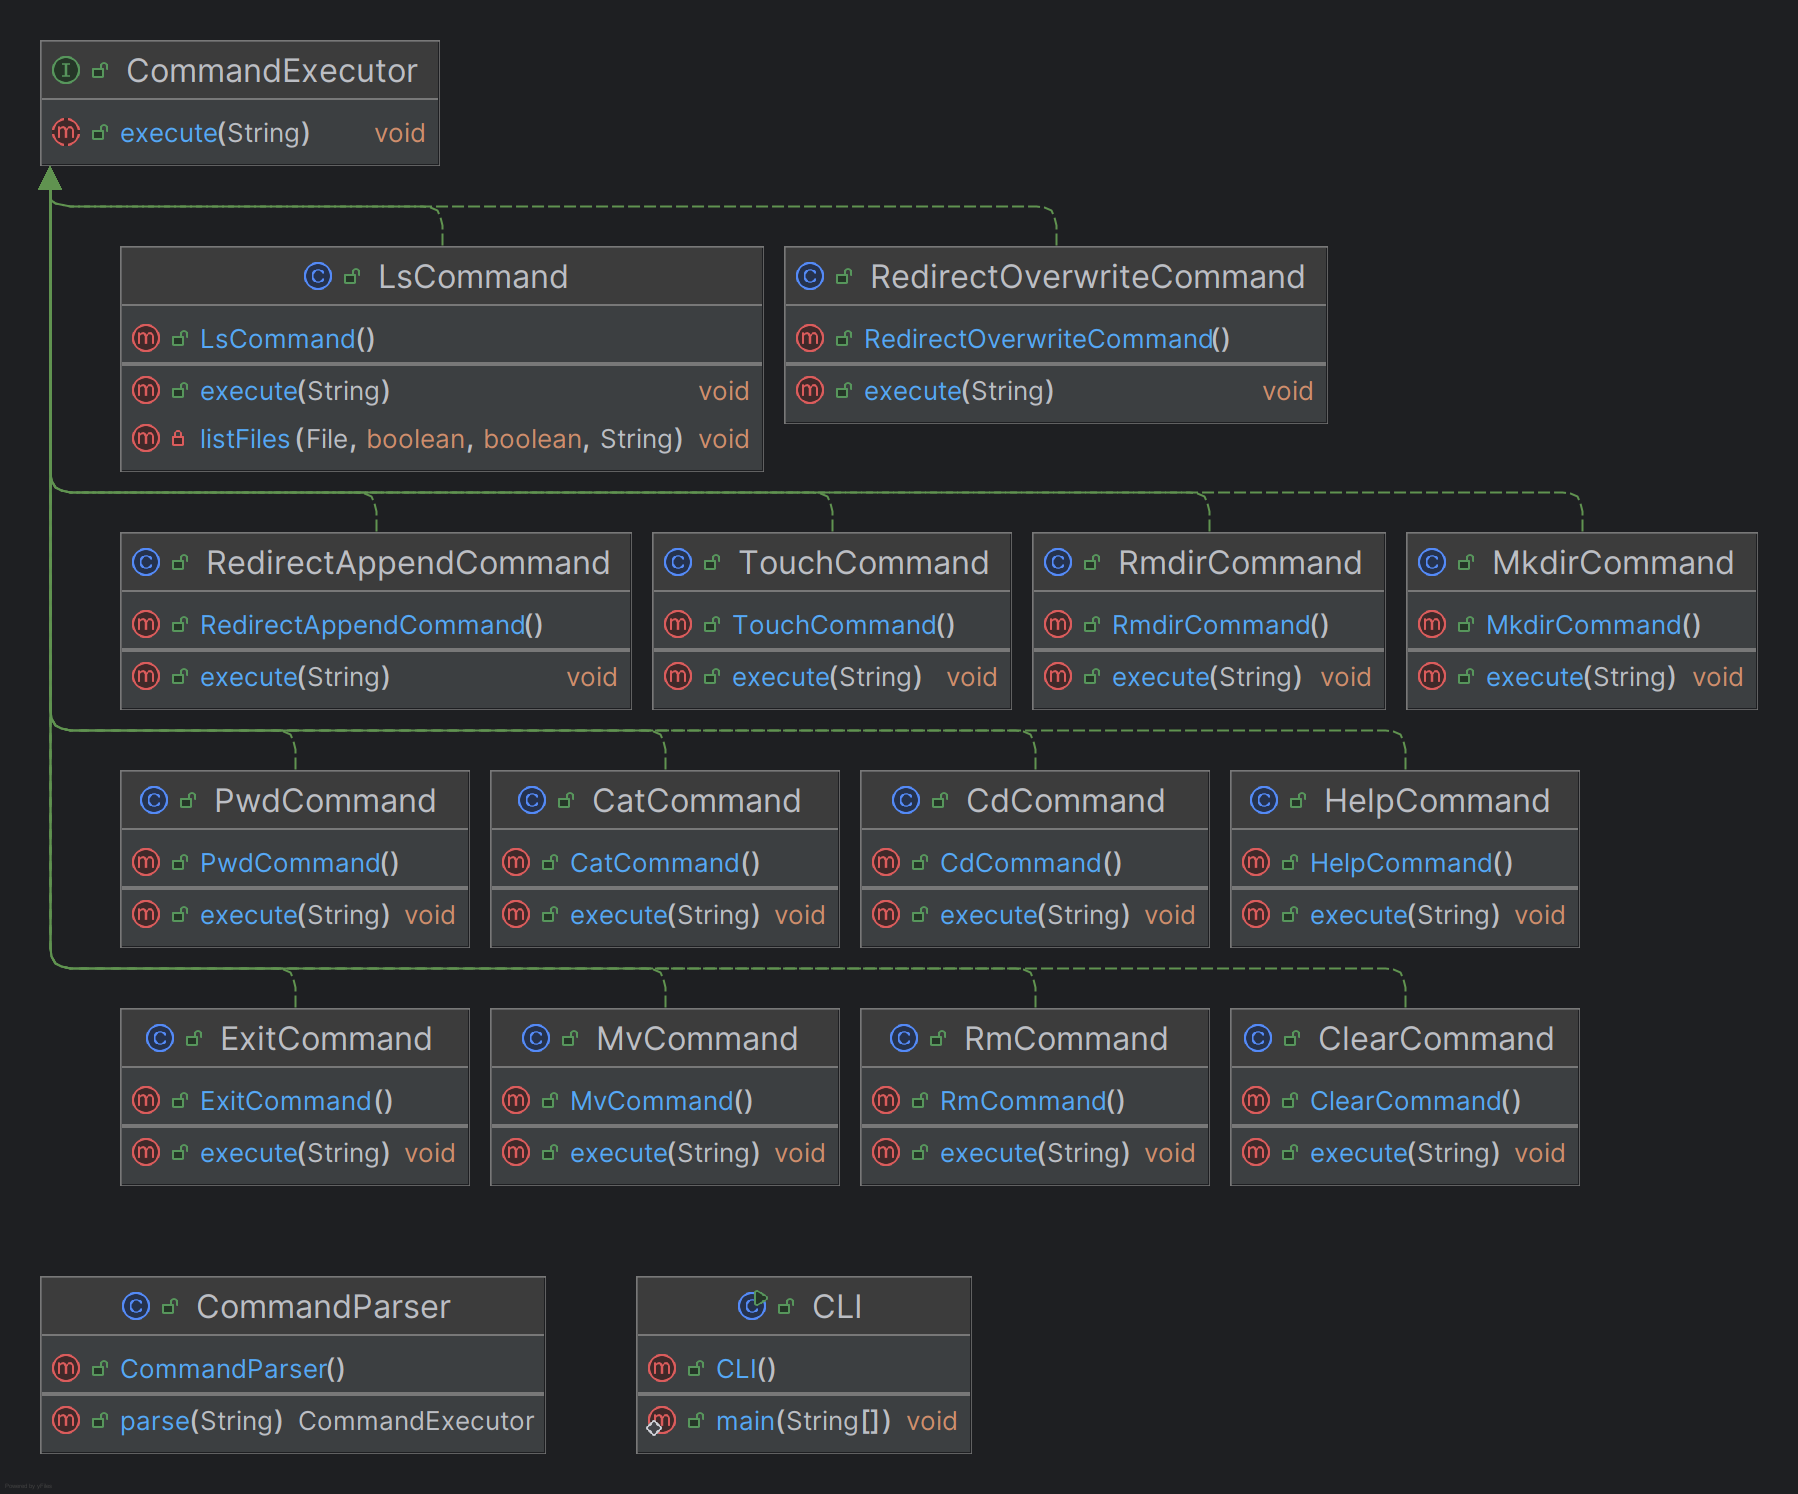
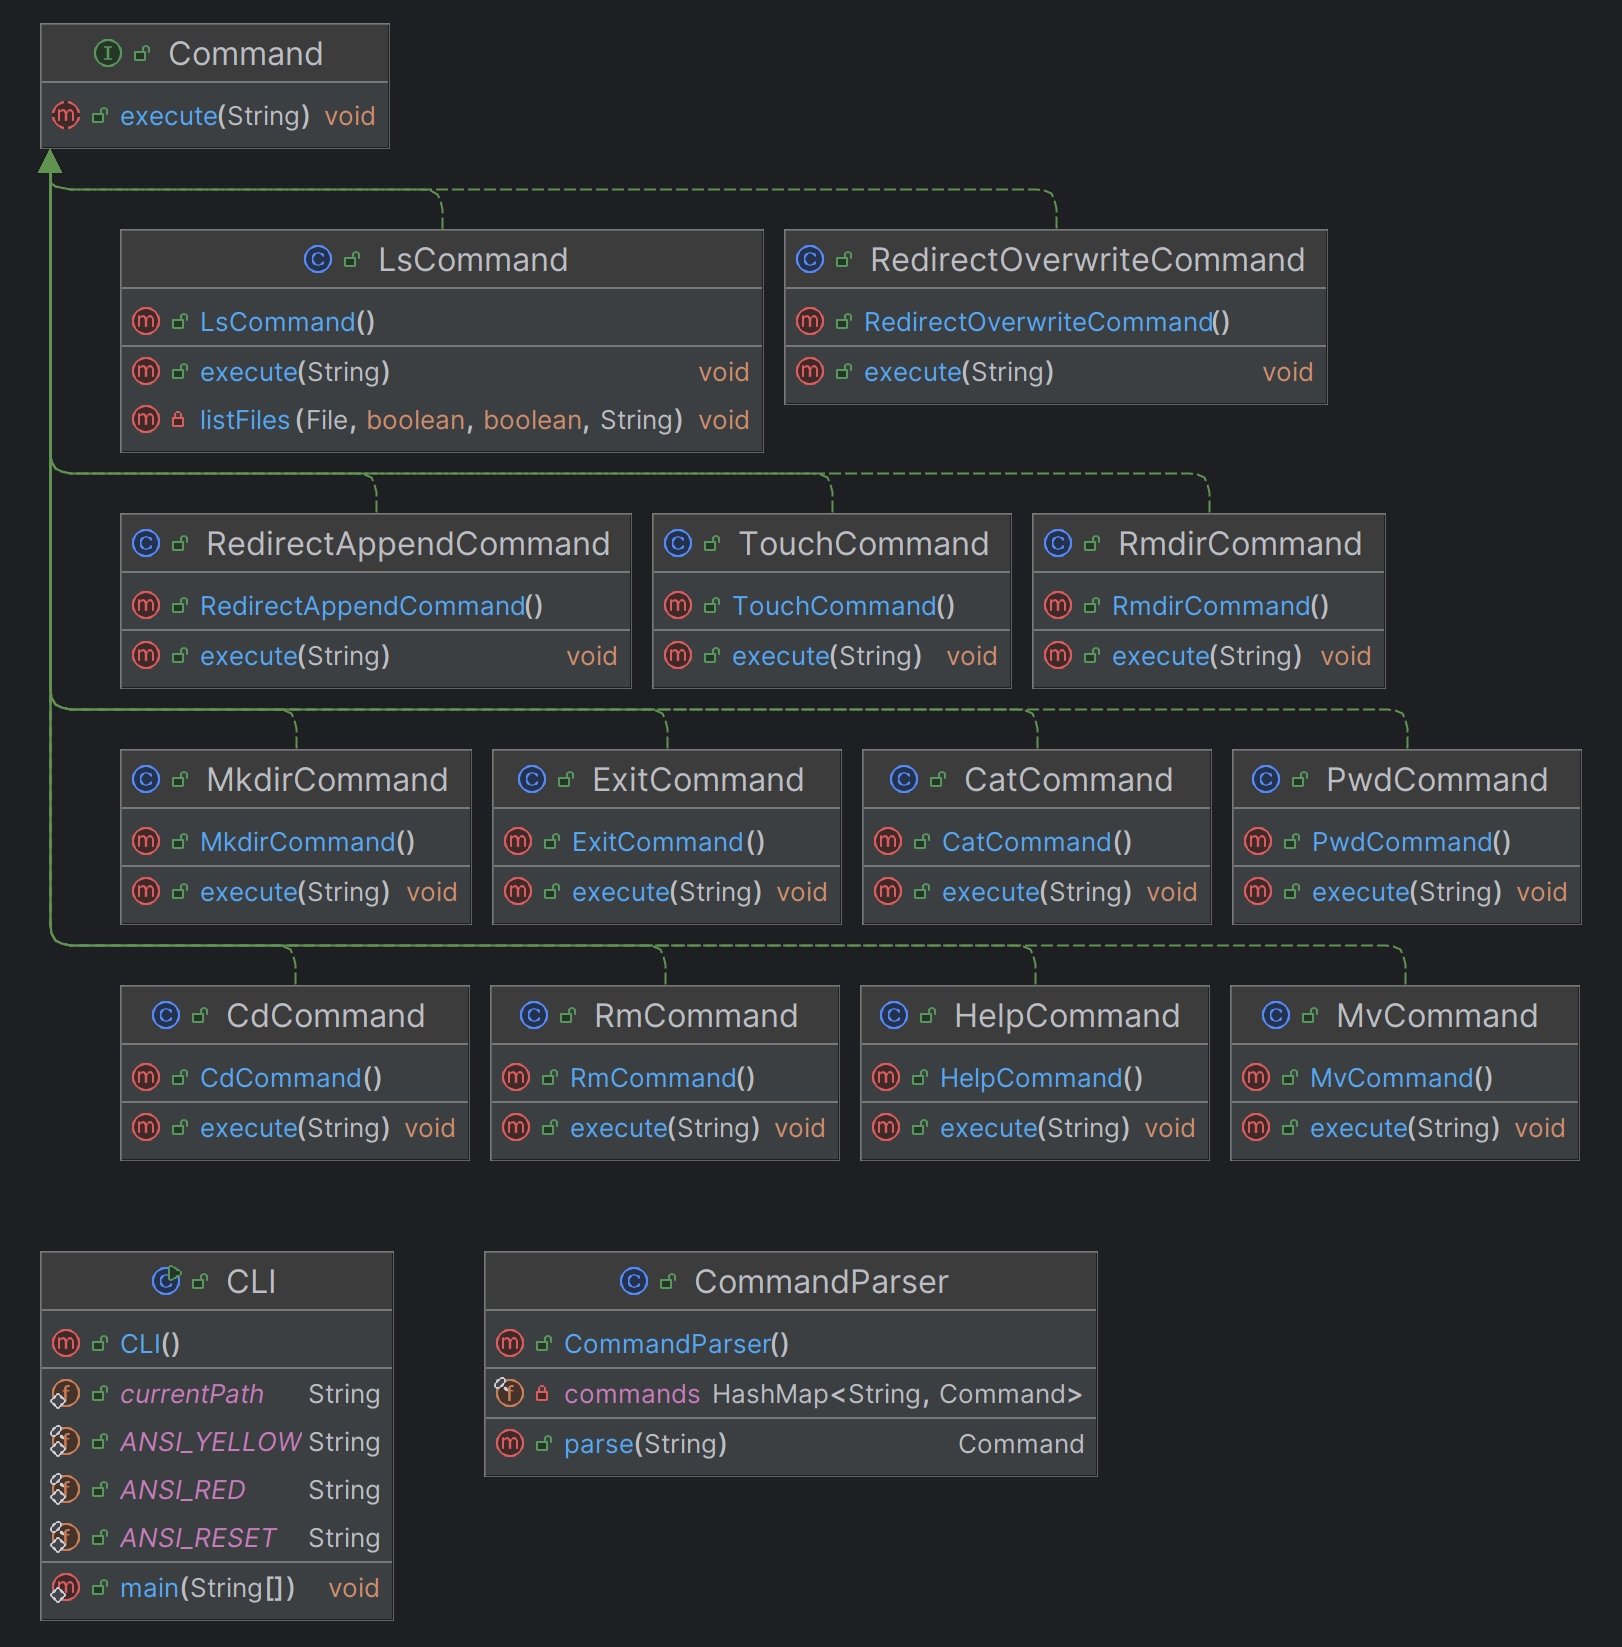
Update the command interface name

diff --git a/src/main/java/org/example/CommandParser.java b/src/main/java/org/example/CommandParser.java
@@ -4,7 +4,7 @@ import java.util.HashMap;
 // The command parser class that parses user input and returns the corresponding command
 public class CommandParser {
     // A map to store the commands
-    private final HashMap<String, CommandExecutor> commands;
+    private final HashMap<String, Command> commands;
 
     // Constructor to initialize the command map
     public CommandParser() {
@@ -38,7 +38,7 @@ public class CommandParser {
     }
 
     // Method to parse the user input and return the corresponding command
-    public CommandExecutor parse(String input) {
+    public Command parse(String input) {
 
         // Handle appending operator
         if (input.contains(">>")) {
@@ -54,7 +54,7 @@ public class CommandParser {
         String[] tokens = input.split(" ");
 
         // Get the command from the first token
-        CommandExecutor command = commands.get(tokens[0]);
+        Command command = commands.get(tokens[0]);
 
         // Return the command if it is recognized
         if (command != null) {

diff --git a/src/main/java/org/example/CLI.java b/src/main/java/org/example/CLI.java
@@ -30,7 +30,7 @@ public class CLI {
             if(input.trim().isEmpty()) continue;
 
             // Parse the input and get the corresponding command
-            CommandExecutor command = parser.parse(input);
+            Command command = parser.parse(input);
 
             // Execute the command if it is recognized by the parser    
             if (command != null) {

diff --git a/src/main/java/org/example/TouchCommand.java b/src/main/java/org/example/TouchCommand.java
@@ -3,7 +3,7 @@ import java.io.File;
 import java.io.IOException;
 
 // Command to create a new file
-public class TouchCommand implements CommandExecutor {
+public class TouchCommand implements Command {
     @Override
     public void execute(String input) {
         String[] tokens = input.split(" ");

diff --git a/src/main/java/org/example/RedirectOverwriteCommand.java b/src/main/java/org/example/RedirectOverwriteCommand.java
@@ -5,7 +5,7 @@ import java.io.IOException;
 import java.util.Arrays;
 
 // Command to overwrite output to a file
-public class RedirectOverwriteCommand implements CommandExecutor {
+public class RedirectOverwriteCommand implements Command {
 
     @Override
     public void execute(String input) {

diff --git a/src/main/java/org/example/RedirectAppendCommand.java b/src/main/java/org/example/RedirectAppendCommand.java
@@ -5,7 +5,7 @@ import java.io.IOException;
 import java.util.Arrays;
 
 // Command to append output to a file
-public class RedirectAppendCommand implements CommandExecutor {
+public class RedirectAppendCommand implements Command {
 
     @Override
     public void execute(String input) {

diff --git a/src/main/java/org/example/PwdCommand.java b/src/main/java/org/example/PwdCommand.java
@@ -1,8 +1,7 @@
 package org.example;
-import java.io.File;
 
 // Command to print the current working directory
-public class PwdCommand implements CommandExecutor {
+public class PwdCommand implements Command {
 
     @Override
     public void execute(String input) {

diff --git a/src/main/java/org/example/LsCommand.java b/src/main/java/org/example/LsCommand.java
@@ -2,7 +2,7 @@ package org.example;
 import java.io.File;
 
 // Command to list files in the current directory
-public class LsCommand implements CommandExecutor {
+public class LsCommand implements Command {
 
     @Override
     public void execute(String input) {

diff --git a/src/main/java/org/example/HelpCommand.java b/src/main/java/org/example/HelpCommand.java
@@ -1,7 +1,7 @@
 package org.example;
 
 // Command to display available commands with usage and options
-public class HelpCommand implements CommandExecutor {
+public class HelpCommand implements Command {
 
     @Override
     public void execute(String input) {

diff --git a/src/main/java/org/example/CatCommand.java b/src/main/java/org/example/CatCommand.java
@@ -4,7 +4,7 @@ import java.io.FileReader;
 import java.io.BufferedReader;
 import java.io.IOException;
 
-public class CatCommand implements CommandExecutor {
+public class CatCommand implements Command {
 
     @Override
     public void execute(String input) {

diff --git a/src/main/java/org/example/MkdirCommand.java b/src/main/java/org/example/MkdirCommand.java
@@ -2,7 +2,7 @@ package org.example;
 import java.io.File;
 
 // Command to create a new directory
-public class MkdirCommand implements CommandExecutor {
+public class MkdirCommand implements Command {
 
     @Override
     public void execute(String input) {

diff --git a/src/main/java/org/example/RmdirCommand.java b/src/main/java/org/example/RmdirCommand.java
@@ -2,7 +2,7 @@ package org.example;
 import java.io.File;
 
 // Command to delete a directory
-public class RmdirCommand implements CommandExecutor {
+public class RmdirCommand implements Command {
 
     @Override
     public void execute(String input) {

diff --git a/src/main/java/org/example/MvCommand.java b/src/main/java/org/example/MvCommand.java
@@ -3,7 +3,7 @@ package org.example;
 import java.io.File;
 
 // Command to move or rename a file
-public class MvCommand implements CommandExecutor {
+public class MvCommand implements Command {
 
     @Override
     public void execute(String input) {
